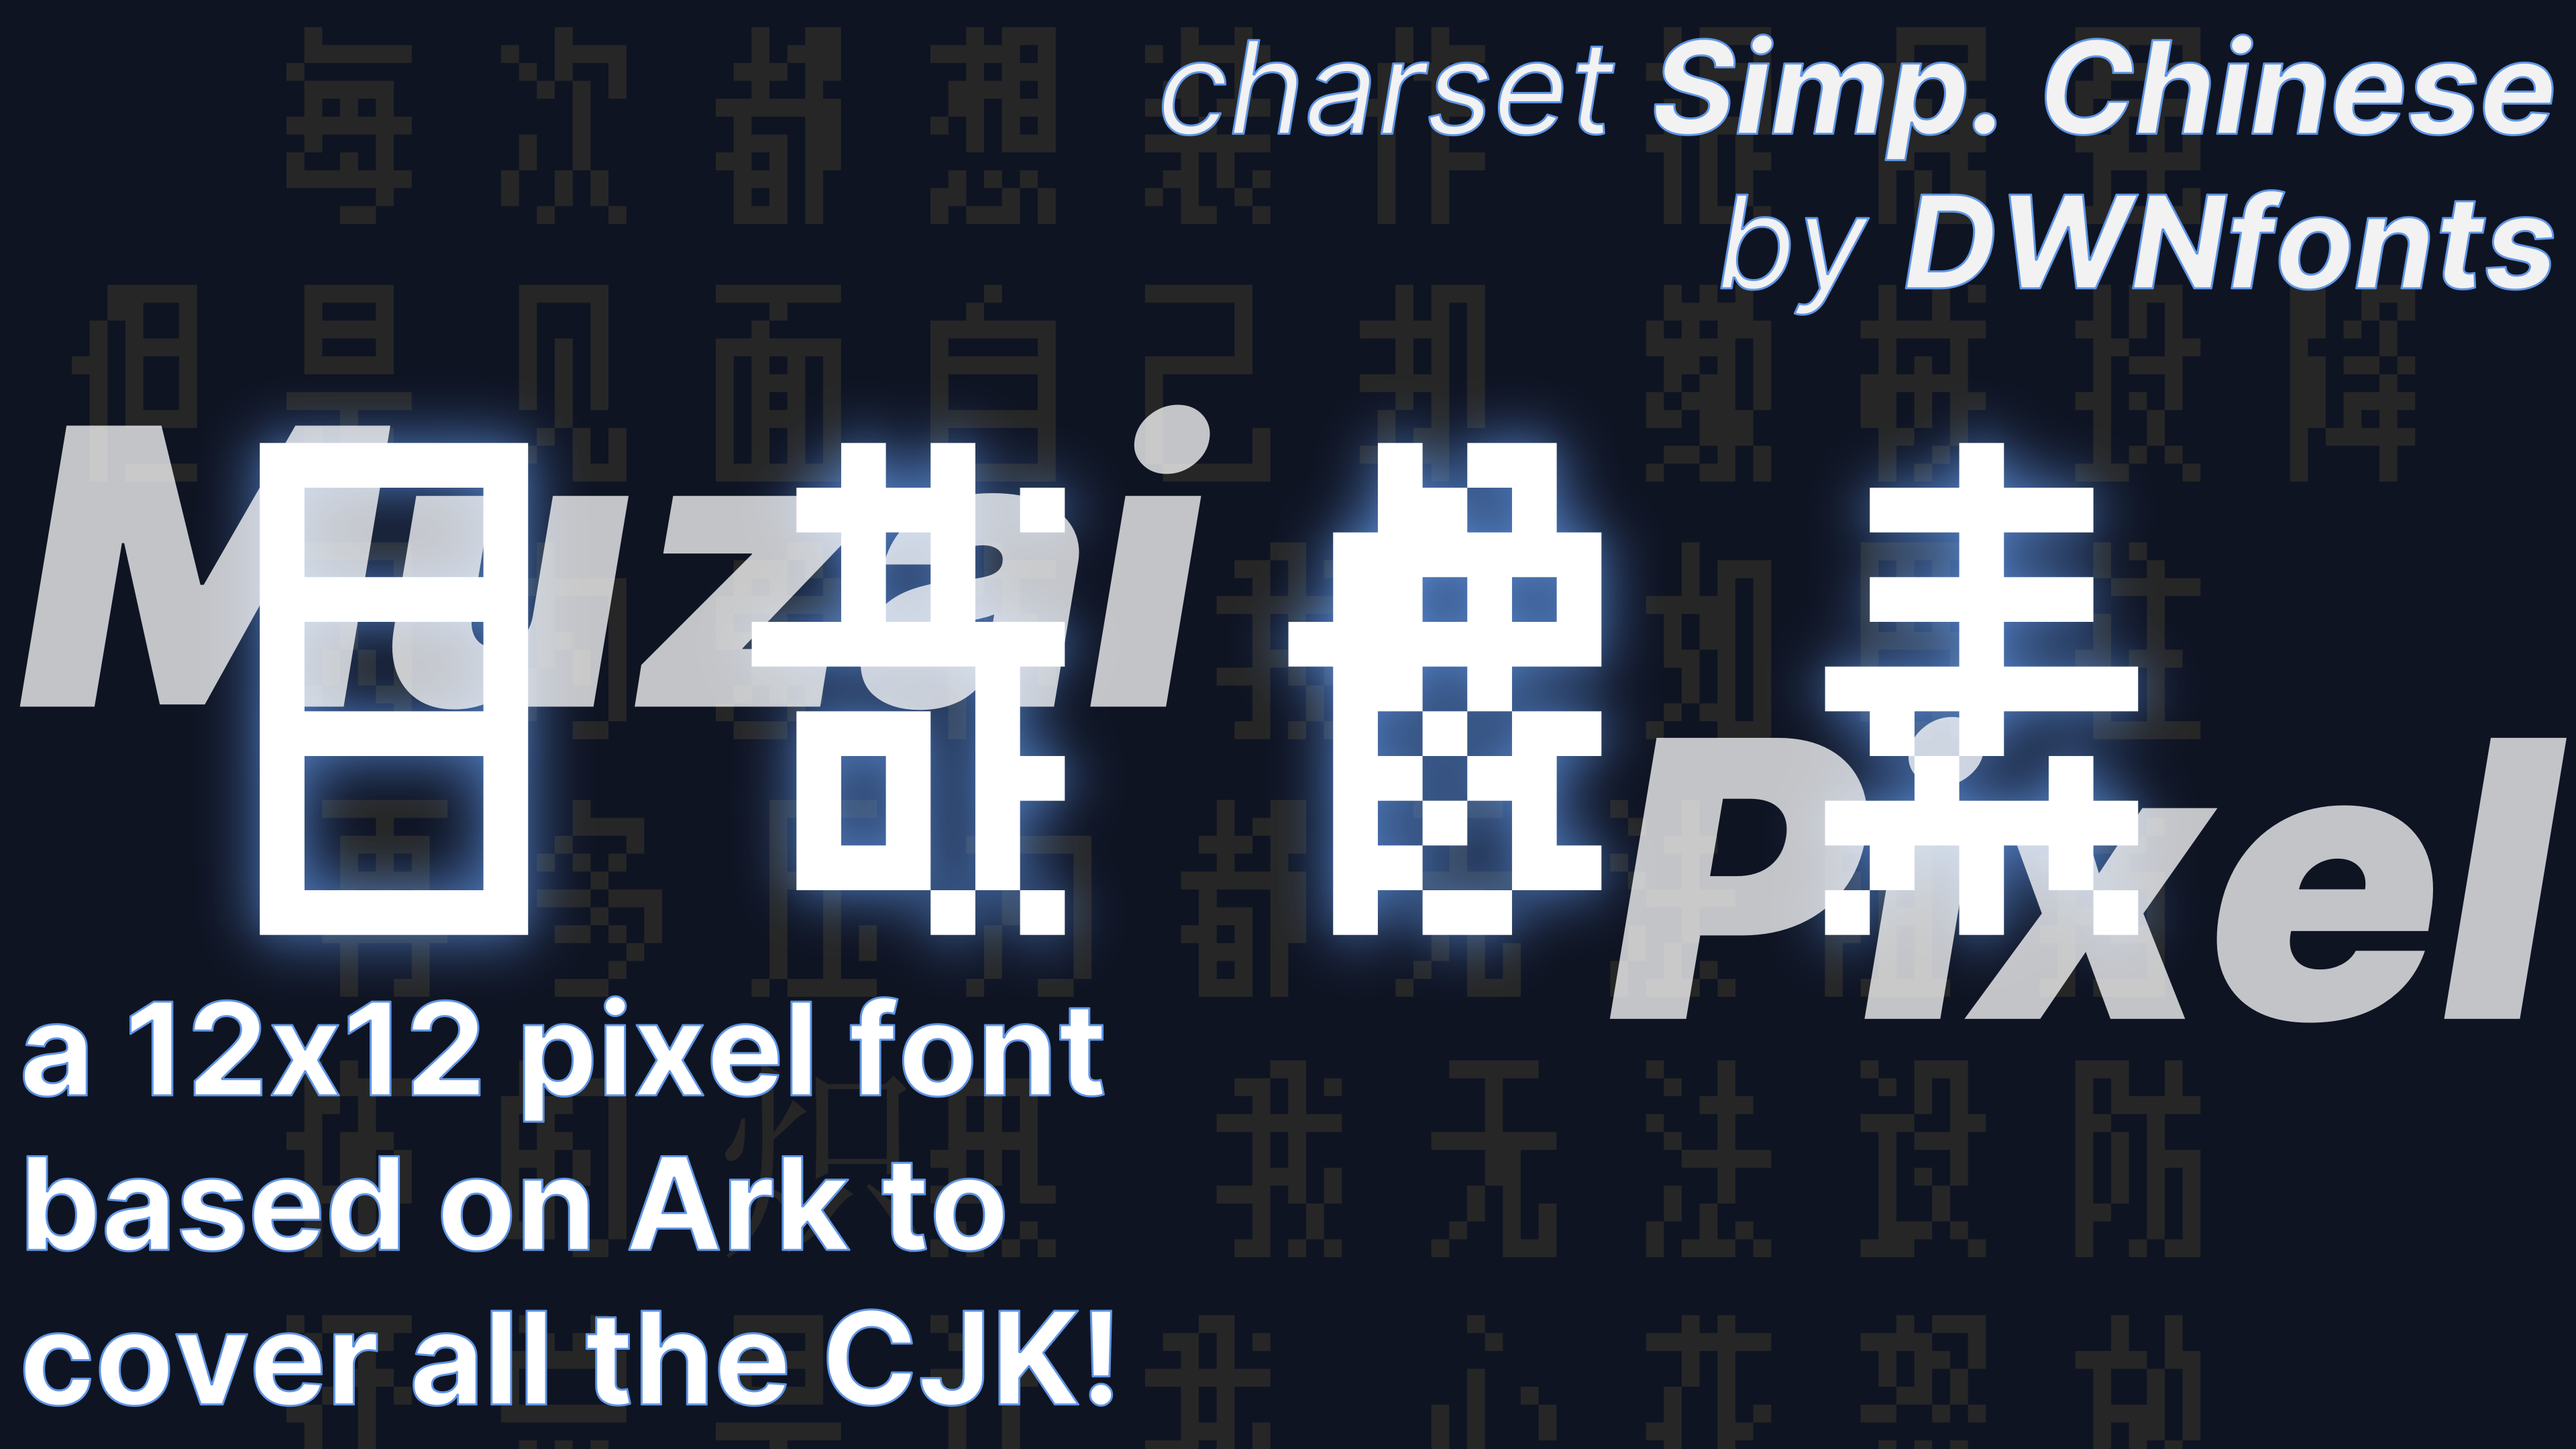
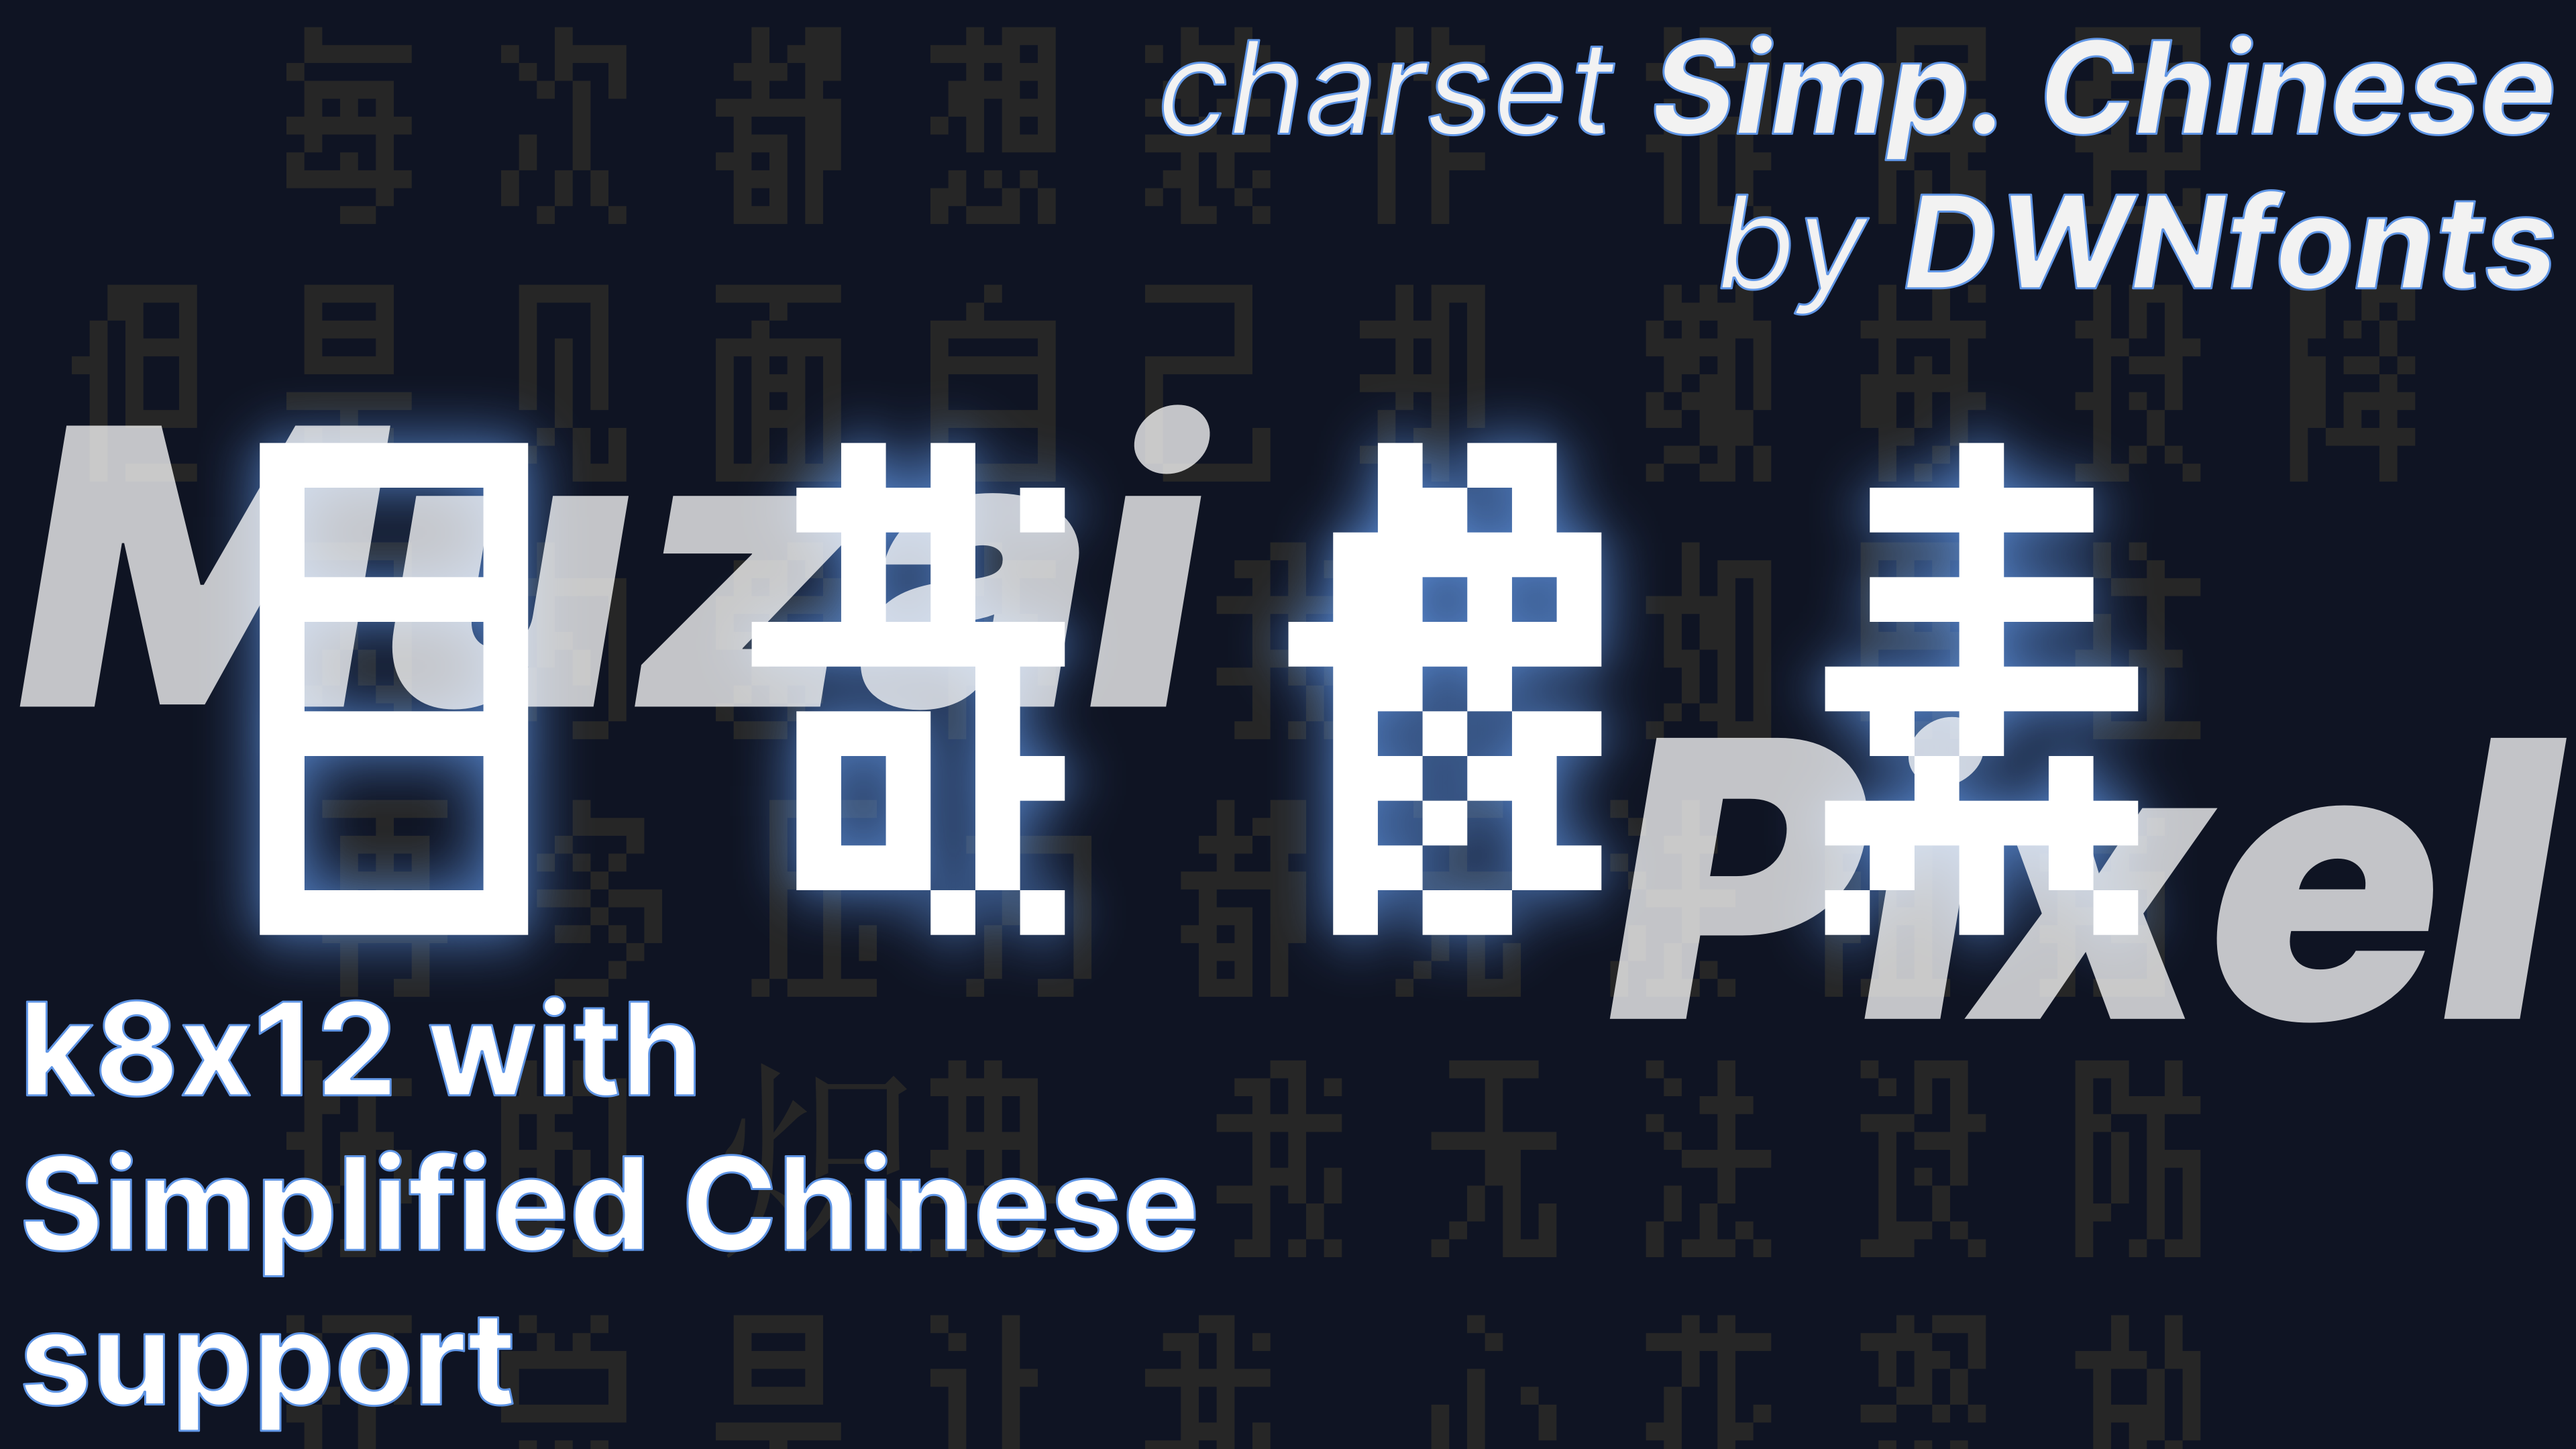
更新一下文档

Changed region(s): [[0.0, 0.6824, 0.4688, 0.9926]]

diff --git a/README.md b/README.md
@@ -1,4 +1,4 @@
-![](/docs/chusung_03.png)
+![目哉像素体 - k8x12 补简计划](/docs/chusung_03.png)
 # 目哉像素体 - k8x12 补简计划 | MuzaiPixel: k8x12 with Simp. Chinese support 
 > [*Muzai Pixel is a DWNfonts project.*](https://github.com/DWNfonts)
 
@@ -15,6 +15,14 @@ If you like it, you can see the [Donate](/docs/donate.md) page.
 > CAUTION: This font only has few glyphs containing the JIS Kanji level 1 and 2 (from k8x12), and some glyphs in Xiandai Hanyu Changyong Zibiao.**
 
 Tool used: 使用工具：[Bits'n'Picas 2.0](http://github.com/kreativekorp/bitsnpicas), [FontForge](http://fontforge.org).
+## FAQ
+### Why there are 2 fonts? 为什么有俩字体？
+* MuzaiPixel (original).ttf is tuned for square pixels.  
+original 版本像素是方的，如果你的工具没有 bug 的话建议用这个
+* MuzaiPixel (flat).ttf has full-width chars. If there's something wrong with your tool, use that, and use text effect to make it 8x12.  
+flat 版本拉宽到原来的 1.5 倍。如果你的工具有 bug，那就用这个，然后压缩一下。
+These fonts cannot install both. They have the same font metadatas.  
+这些字体不能同时安装，他们有共同的元数据
 ## Roadmap 道路
 1. 做完《现代汉语常用字表》
 3. 做完国标、通规一级汉字
